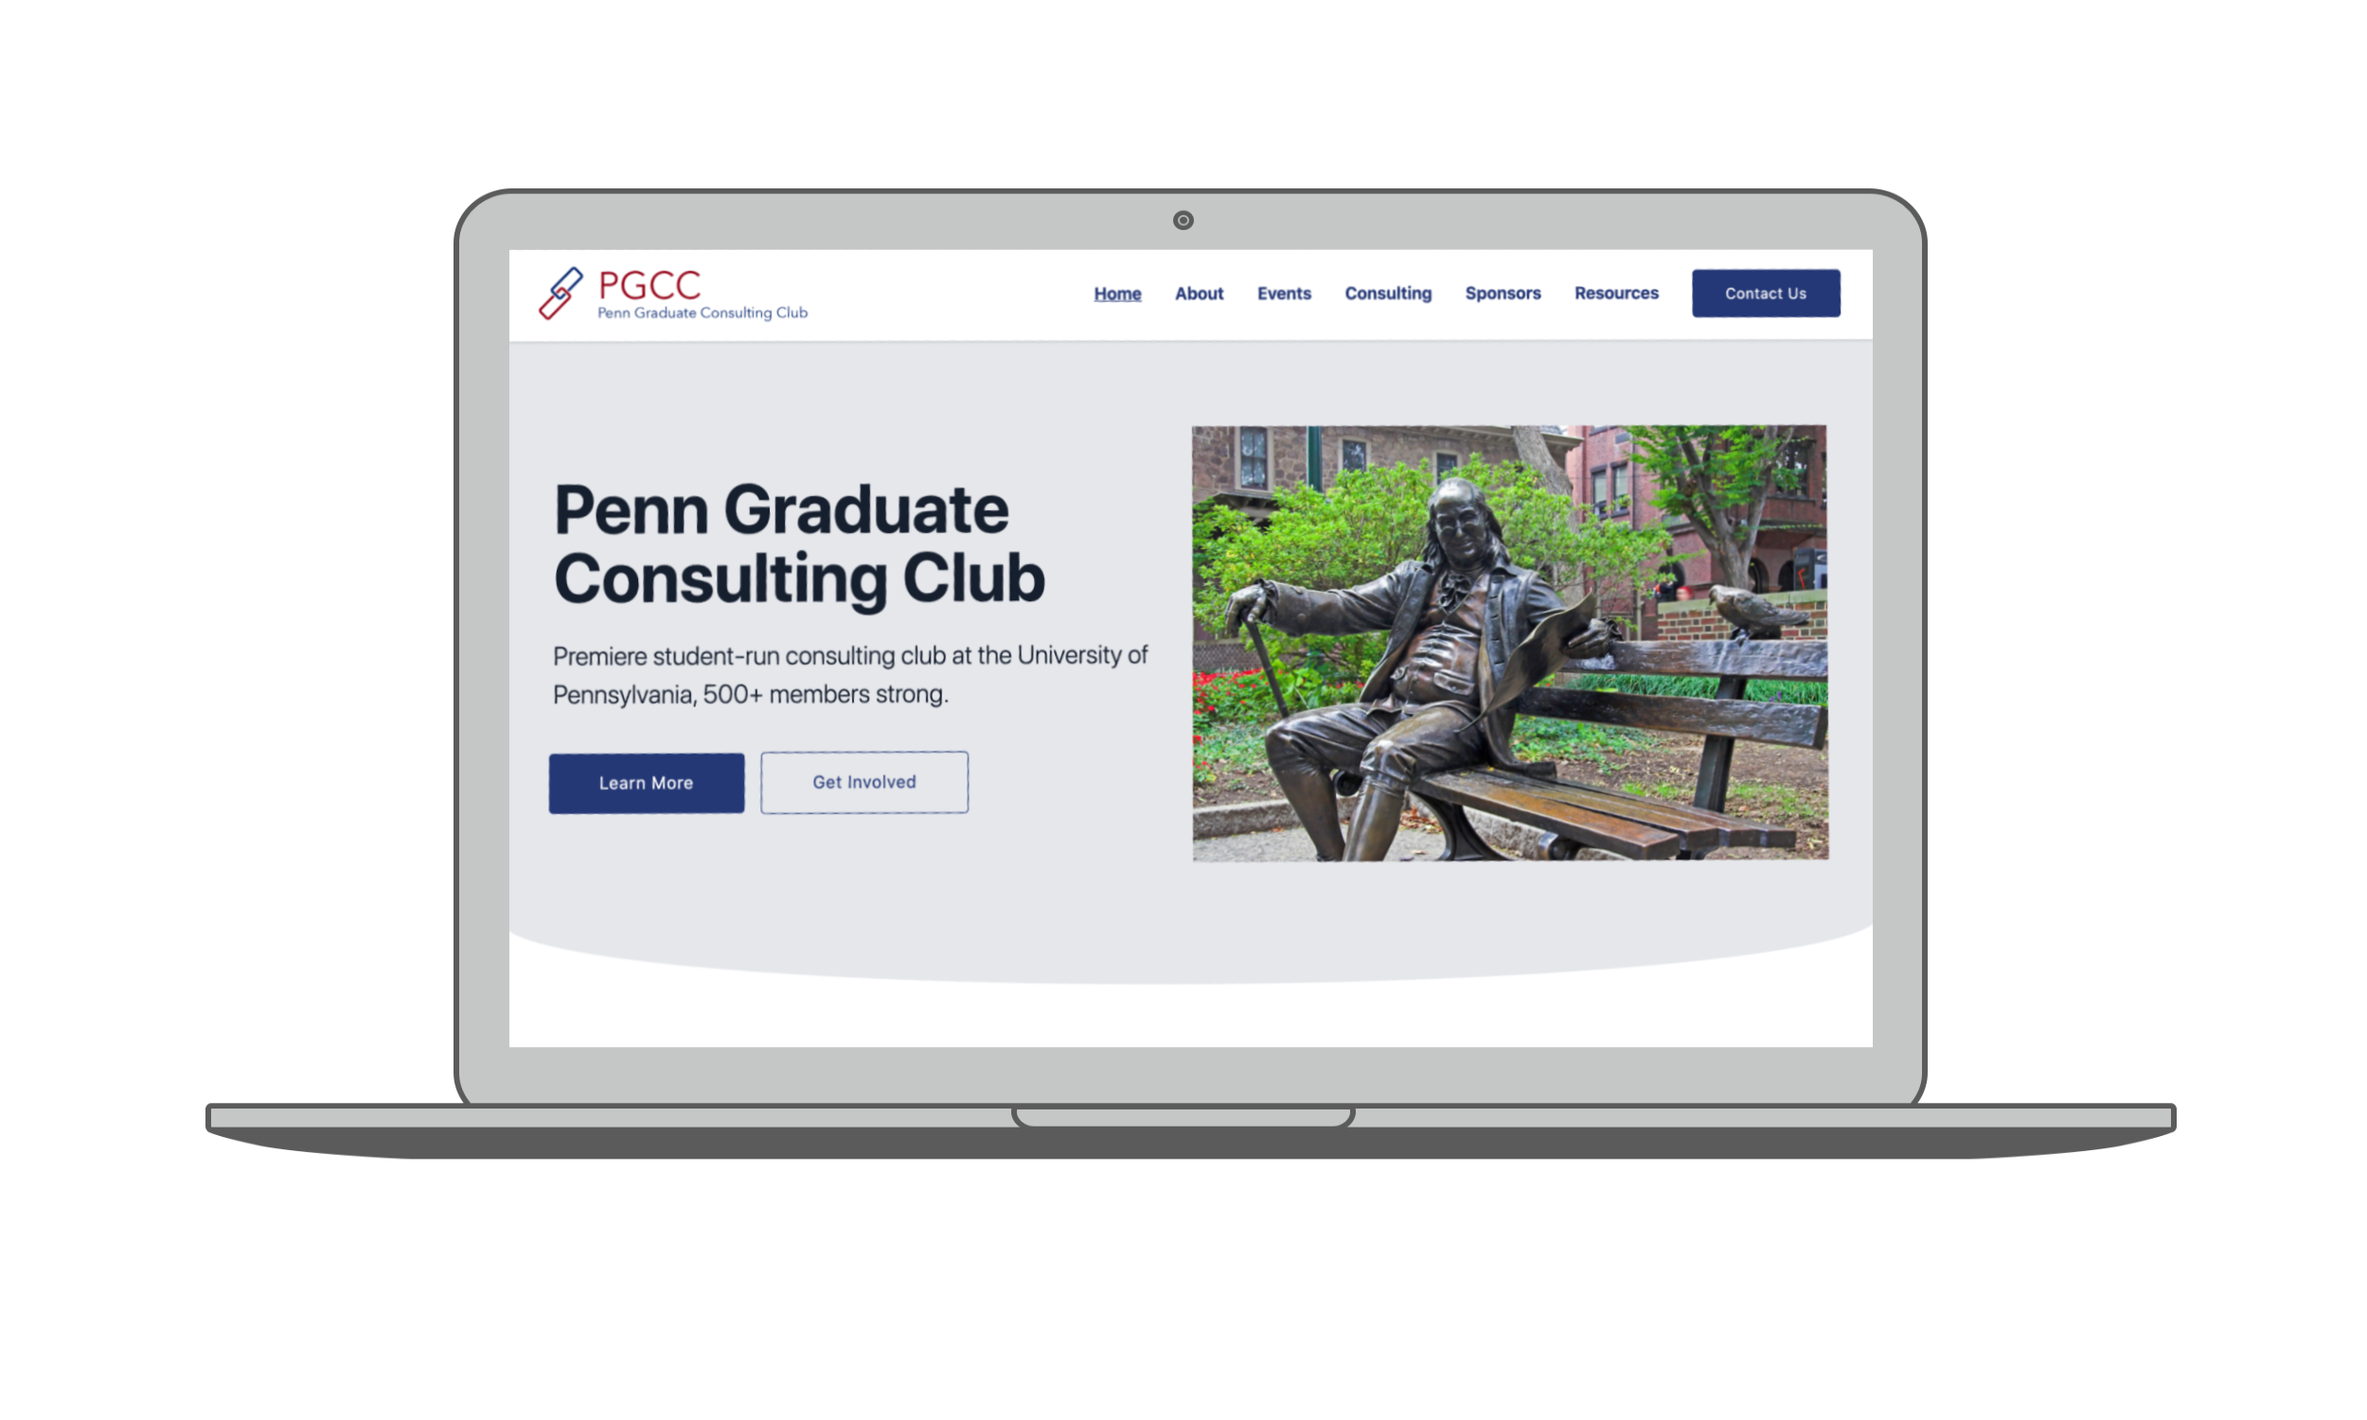
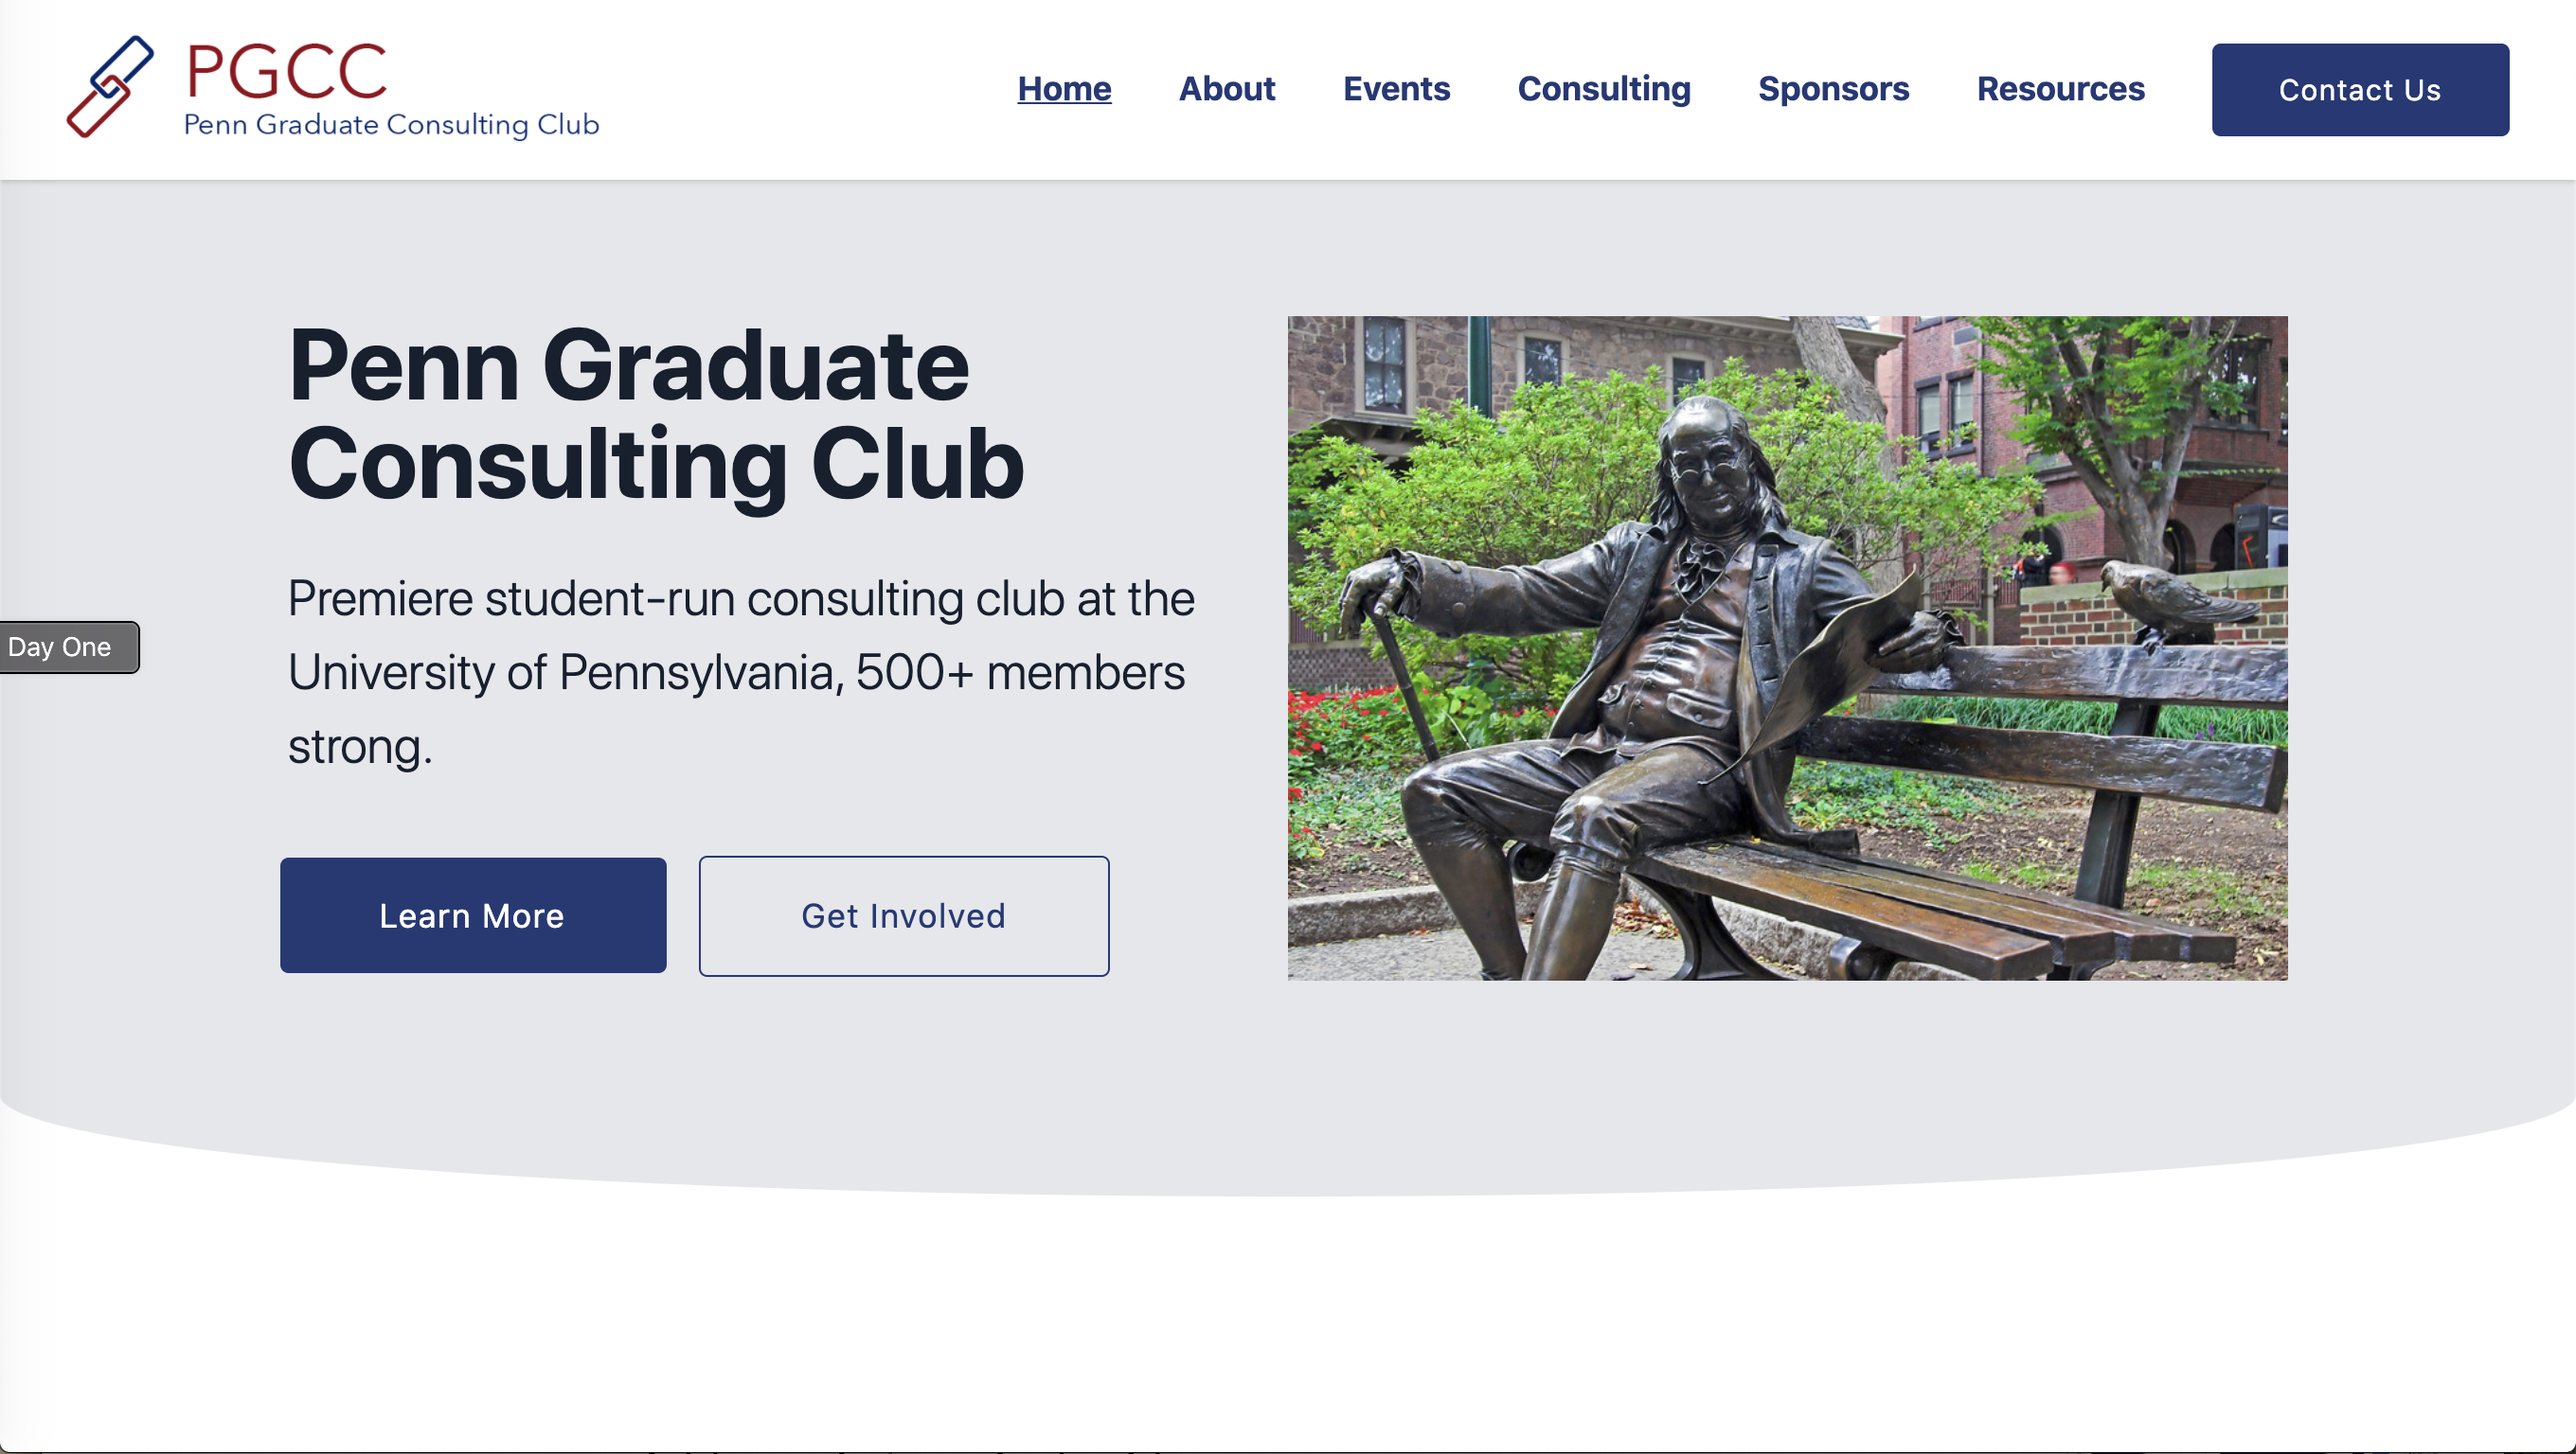
starting other pages

diff --git a/src/projects.js b/src/projects.js
@@ -1,79 +1,79 @@
 export default [
   {
     title: "Get A College Mentor",
-    image: require("./images/mock-college-mentor.png"),
+    image: require("./images/mock-get-mentor.png"),
     description:
       "Web app for a non-profit connecting South African high schoolers with mentors who attend top universities in the United States.",
-    techStack: ["Next.js", "Tailwind", "Airtable", "AWS S3"]
+    techStack: ["Next.js", "Tailwind", "Airtable", "AWS S3"],
   },
   {
     title: "Penn Grad Consulting Club",
-    image: require("./images/mock-pgcc.png"),
+    image: require("./images/mock-consulting-club.png"),
     description:
       "Website for consulting club at the University of Pennsylvania. Easy-edit JSON files allowed non-technical team to update site.",
-    techStack: ["React", "Gatsby", "Tailwind", "Mailchimp"]
-  },
-  {
-    title: "Kuzoclass",
-    image: require("./images/mock-nalda.png"),
-    description:
-      "Website for early stage venture aiming to provide online classes centered around entrepreneurship and creativity.",
-    techStack: ["HTML", "CSS", "Formcarry"]
-  },
-  {
-    title: "Nalda Campus",
-    image: require("./images/mock-nalda.png"),
-    description:
-      "Web app for a centralized source of information on college campuses. Built admin panel, CMS, and auth system.",
-    techStack: ["React", "Redux", "MongoDB", "AWS S3"]
-  },
-  {
-    title: "Flourish",
-    image: require("./images/mock-flourish.png"),
-    description:
-      "Web and mobile apps for a micro-donation platform targeted at millenials looking to hold charities accountable.",
-    techStack: ["React/Redux", "React Native", "Firebase", "Stripe"]
-  },
-  {
-    title: "Love, Sylvie",
-    image: require("./images/mock-love-sylvie.png"),
-    description:
-      "Landing and referral page for an early stage perfume startup focused on building out an online brand.",
-    techStack: ["Ruby on Rails", "HTML", "SCSS", "ERB"]
-  },
-  {
-    title: "YouthHack",
-    image: require("./images/mock-youthhack.png"),
-    description:
-      "Website for an international organization dedicated to cultivating student entrepreneurship.",
-    techStack: ["Handlebars", "HTML", "SCSS", "Node"]
+    techStack: ["React", "Gatsby", "Tailwind", "Mailchimp"],
   },
   {
     title: "Orthly",
     image: require("./images/mock-orthly.png"),
     description:
       "Landing page for a company which provides invisible aligners to patients for a fraction of the cost of traditional methods.",
-    techStack: ["React", "Gatsby", "Netlify"]
+    techStack: ["React", "Gatsby", "Netlify"],
   },
   {
-    title: "Adventure Sitka",
-    image: require("./images/mock-adventure-sitka.png"),
+    title: "Kuzoclass",
+    image: require("./images/mock-kuzo.png"),
     description:
-      "Website for Alaskan tourism company allowing customers to make reservations for shore excursions.",
-    techStack: ["Squarespace", "HTML", "CSS", "RocketRes"]
+      "Website for early stage venture aiming to provide online classes centered around entrepreneurship and creativity.",
+    techStack: ["HTML", "CSS", "Formcarry"],
+  },
+  {
+    title: "Nalda Campus",
+    image: require("./images/mock-nalda.png"),
+    description:
+      "Web app for a centralized source of information on college campuses. Built admin panel, CMS, and auth system.",
+    techStack: ["React", "Redux", "MongoDB", "AWS S3"],
+  },
+  {
+    title: "Flourish",
+    image: require("./images/mock-flourish.png"),
+    description:
+      "Web and mobile apps for a micro-donation platform targeted at millenials looking to hold charities accountable.",
+    techStack: ["React/Redux", "React Native", "Firebase", "Stripe"],
+  },
+  {
+    title: "Love, Sylvie",
+    image: require("./images/mock-love-sylvie.png"),
+    description:
+      "Landing and referral page for an early stage perfume startup focused on building out an online brand.",
+    techStack: ["Ruby on Rails", "HTML", "SCSS", "ERB"],
+  },
+  {
+    title: "YouthHack",
+    image: require("./images/mock-youthhack.png"),
+    description:
+      "Website for an international organization dedicated to cultivating student entrepreneurship.",
+    techStack: ["Handlebars", "HTML", "SCSS", "Node"],
   },
   {
     title: "The Metric",
     image: require("./images/mock-metric.png"),
     description:
       "Web app for a student-run organization that publishes policy and current affairs content from across the world.",
-    techStack: ["Ruby on Rails", "PostgreSQL", "Heroku", "AWS S3"]
+    techStack: ["Ruby on Rails", "PostgreSQL", "Heroku", "AWS S3"],
+  },
+  {
+    title: "Adventure Sitka",
+    image: require("./images/mock-adventure-sitka.png"),
+    description:
+      "Website for Alaskan tourism company allowing customers to make reservations for shore excursions.",
+    techStack: ["Squarespace", "HTML", "CSS", "RocketRes"],
   },
   {
     title: "Kayak Sitka",
     image: require("./images/mock-ssoa.png"),
     description:
       "Website for Alaskan tourism company displaying kayak tour information and RocketRes reservation system.",
-    techStack: ["Squarespace", "HTML", "CSS", "RocketRes"]
-  }
+    techStack: ["Squarespace", "HTML", "CSS", "RocketRes"],
+  },
 ];

diff --git a/src/pages/index.js b/src/pages/index.js
@@ -3,7 +3,7 @@ import React from "react";
 import Layout from "../components/layout";
 import SEO from "../components/seo";
 import Button from "../components/button";
-import dudeImg from "../images/dude-4.png";
+import dudeImg from "../images/dude-final.png";
 
 function IndexPage() {
   return (
@@ -14,27 +14,23 @@ function IndexPage() {
       />
 
       <section className="text-left">
-        <div className="flex">
-          <div className="w-3/5">
+        <div className="flex items-center">
+          <div className="w-2/3 mr-10">
             <p className="text-GRAY uppercase">
               Premier web design & development studio
             </p>
-            <h1 className="inline-block mb-2 text-6xl text-white font-bold">
+            <h1 className="-mt-2 mb-2 text-6xl text-white font-bold">
               GET IT BUILT WITH <span className="text-TEAL">RIPLO.</span>
             </h1>
-            <h2 className="inline-block mb-6 text-3xl text-white">
+            <h2 className="mb-6 text-3xl text-white">
               We rapidly build web apps with modern technologies and
               industry-trained best practices. Want something built? We&apos;d
               love to help.
             </h2>
             <Button value="Find out more" />
           </div>
-          <div className="w-2/5">
-            <img
-              alt="Cat and human sitting on a couch"
-              className="block mx-auto mb-8"
-              src={dudeImg}
-            />
+          <div className="w-1/3">
+            <img alt="riplo-icon" className="" src={dudeImg} />
           </div>
         </div>
       </section>

diff --git a/src/components/tech-cards.js b/src/components/tech-cards.js
@@ -4,9 +4,7 @@ import PropTypes from "prop-types";
 function TechCards({ stack, isDark }) {
   return (
     <div>
-      <h2
-        className={`font-bold text-lg ${isDark ? "text-white" : "text-DARK"}`}
-      >
+      <h2 className={`font-bold ${isDark ? "text-white" : "text-DARK"}`}>
         Technologies Used:
       </h2>
 
@@ -19,7 +17,7 @@ function TechCards({ stack, isDark }) {
                 isDark ? "bg-TEAL" : "bg-DARK-TEAL"
               }`}
             >
-              <p className="text-DARK font-semibold">{tech}</p>
+              <p className="text-DARK">{tech}</p>
             </div>
           );
         })}
@@ -30,12 +28,12 @@ function TechCards({ stack, isDark }) {
 
 TechCards.defaultProps = {
   stack: [],
-  isDark: false
+  isDark: false,
 };
 
 TechCards.propTypes = {
   stack: PropTypes.array.isRequired,
-  isDark: PropTypes.bool.isRequired
+  isDark: PropTypes.bool.isRequired,
 };
 
 export default TechCards;

diff --git a/src/pages/services.js b/src/pages/services.js
@@ -1,0 +1,30 @@
+import React from "react";
+
+import Layout from "../components/layout";
+import SEO from "../components/seo";
+
+function ServicesPage() {
+  return (
+    <Layout>
+      <SEO
+        keywords={[`gatsby`, `tailwind`, `react`, `tailwindcss`]}
+        title="Get Started"
+      />
+
+      <section className="flex flex-col items-center md:flex-row">
+        <div className="">
+          <h1 className="-mt-2 mb-2 text-6xl text-DARK font-bold thickest-underline-TEAL inline-block">
+            LET&apos;S GET THINGS STARTED.
+          </h1>
+          <p className="text-3xl text-DARK mb-10">
+            We are open to projects of varying sizes with clients at all stages
+            of business-maturity. Find out more about all the different things
+            that we can do for you and your organization.
+          </p>
+        </div>
+      </section>
+    </Layout>
+  );
+}
+
+export default ServicesPage;

diff --git a/src/pages/approach.js b/src/pages/approach.js
@@ -2,15 +2,13 @@ import React from "react";
 
 import Layout from "../components/layout";
 import SEO from "../components/seo";
-import Project from "../components/project";
-import projects from "../projects.js";
 
-function WorkPage() {
+function ApproachPage() {
   return (
     <Layout>
       <SEO
         keywords={[`gatsby`, `tailwind`, `react`, `tailwindcss`]}
-        title="Work"
+        title="Approach"
       />
 
       <section className="flex flex-col items-center md:flex-row">
@@ -35,14 +33,8 @@ function WorkPage() {
           </p>
         </div>
       </section>
-
-      <section id="projects">
-        {projects.map((project, i) => {
-          return <Project key={i} project={project} isDark={i % 2 === 0} />;
-        })}
-      </section>
     </Layout>
   );
 }
 
-export default WorkPage;
+export default ApproachPage;

diff --git a/src/components/header.js b/src/components/header.js
@@ -56,19 +56,20 @@ function Header() {
           {[
             {
               route: `/services`,
-              title: `Services`
+              title: `Services`,
             },
             {
               route: `/work`,
-              title: `Work`
+              title: `Work`,
             },
             {
               route: `/approach`,
-              title: `Approach`
-            }
-          ].map(link => (
+              title: `Approach`,
+            },
+          ].map((link) => (
             <Link
               className="block mt-4 text-white no-underline md:inline-block md:mt-0 md:ml-8 md:text-lg montserrat uppercase"
+              activeClassName="thin-underline-TEAL"
               key={link.title}
               to={link.route}
             >

diff --git a/src/css/style.css b/src/css/style.css
@@ -4,13 +4,6 @@
 
 @import url("https://fonts.googleapis.com/css2?family=Kanit:wght@700;800;900&family=Montserrat:wght@300;400;500;600&family=Open+Sans:wght@400;600&family=Rubik&display=swap");
 
-* {
-}
-
-body {
-  /* background: #0b0c10; */
-}
-
 h1 {
   font-family: "Kanit", sans-serif;
 }
@@ -60,8 +53,16 @@ p {
   border-bottom: 10px solid #66fcf1;
 }
 
+.thickest-underline-TEAL {
+  border-bottom: 15px solid #66fcf1;
+}
+
 .thick-underline-DARK-TEAL {
   border-bottom: 10px solid #45a293;
+}
+
+.thin-underline-TEAL {
+  border-bottom: 5px solid #66fcf1;
 }
 
 /*! purgecss end ignore */
